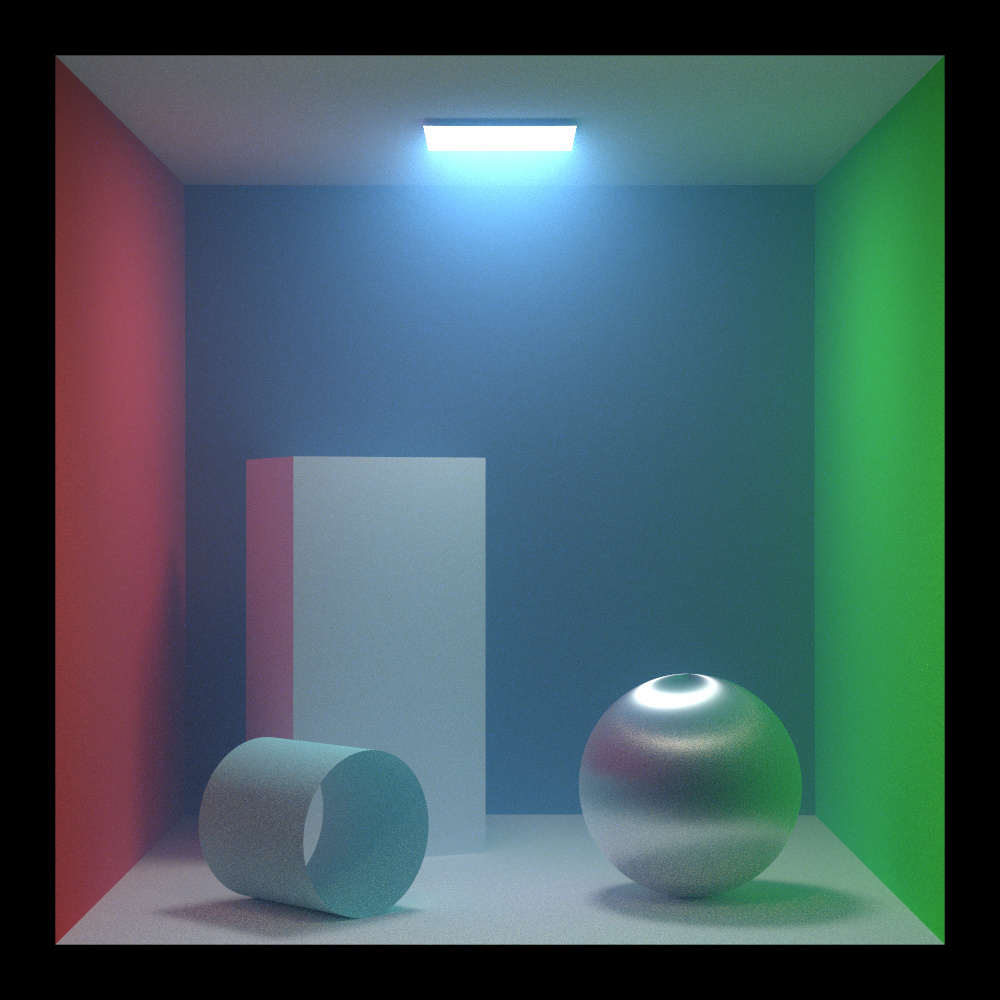
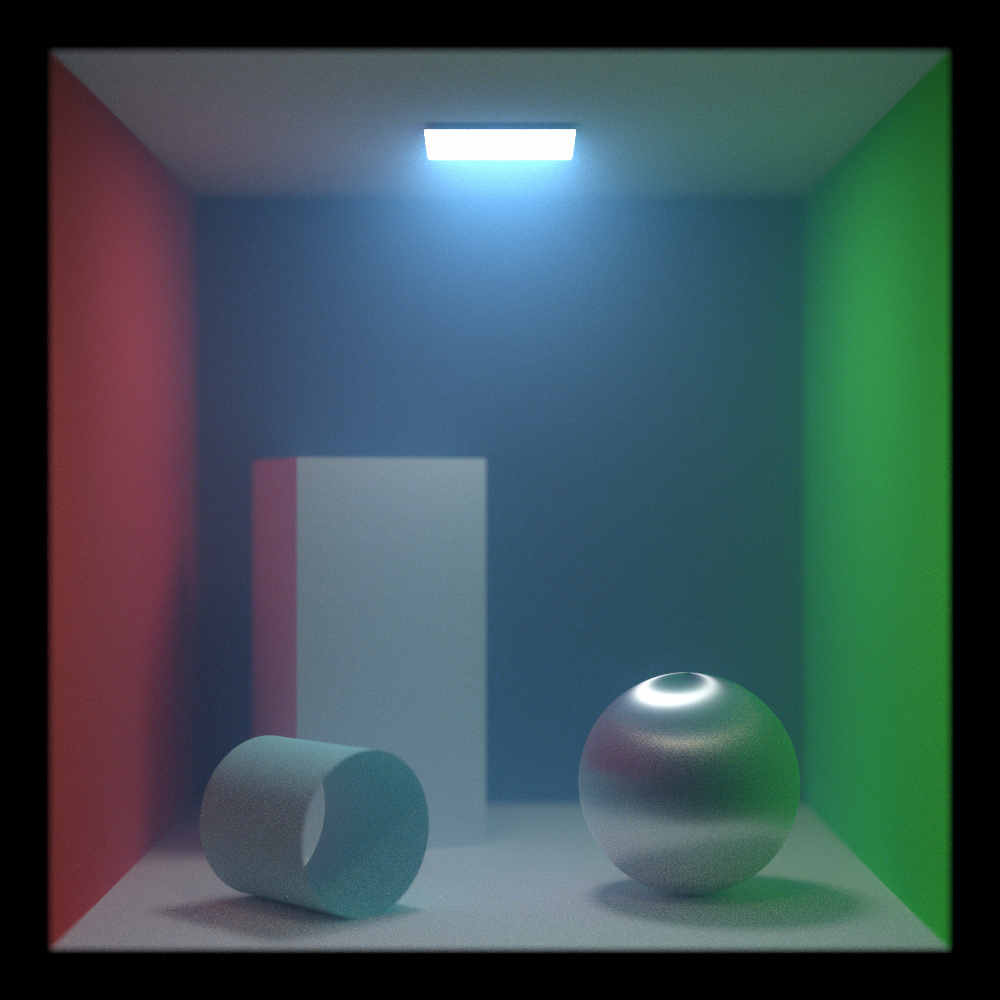
reflection prob

Changed region(s): [[0.031, 0.031, 0.961, 0.961], [0.093, 0.279, 0.155, 0.372], [0.124, 0.372, 0.155, 0.403]]

diff --git a/src/renderer/material.cpp b/src/renderer/material.cpp
@@ -90,10 +90,9 @@ Vec3 Glass::sample(const Vec3 &dir_prev, const Vec3 &normal, const bool into,
   }
 
   Vec3 refraction_vec = refraction_dir(dir_prev, normal, ior_prev, ior_next);
-  double reflectance =
-      schlick_fresnel(dir_prev, refraction_vec, normal, ior_prev, ior_next);
+  double prob = reflection_prob(dir_prev, normal, ior_prev, ior_next);
 
-  if (rnd->gen() < reflectance) {
+  if (rnd->gen() < prob) {
     return reflection_dir(dir_prev, normal);
   } else {
     return refraction_vec;
@@ -109,12 +108,12 @@ double Glass::sampling_pdf(const Vec3 &dir_prev, const Vec3 &dir_next,
   double r = ior_prev / ior_next;
 
   if (dot(dir_next, normal) < 0.) {
-    return 1. - schlick_fresnel(dir_prev, dir_next, normal, ior_prev, ior_next);
+    return 1. - reflection_prob(dir_prev, normal, ior_prev, ior_next);
   } else {
     if (!check_refraction(dir_prev, normal, r)) {
       return 1.;
     } else {
-      return schlick_fresnel(dir_prev, dir_next, normal, ior_prev, ior_next);
+      return reflection_prob(dir_prev, normal, ior_prev, ior_next);
     }
   }
 }
@@ -225,7 +224,7 @@ double MicroBtdf::sampling_pdf(const Vec3 &dir_prev, const Vec3 &dir_next,
     // refract
     Vec3 wm = get_half_vec(dir_prev, dir_next, 1. / r);
 
-    return (1. - schlick_fresnel(dir_prev, dir_next, wm, ior_prev, ior_next)) *
+    return (1. - reflection_prob(dir_prev, wm, ior_prev, ior_next)) *
            ggx_vndf(dir_prev, dir_next, wm, normal) *
            ggx_j(dir_prev, dir_next, wm, 1. / r);
   } else {
@@ -236,7 +235,7 @@ double MicroBtdf::sampling_pdf(const Vec3 &dir_prev, const Vec3 &dir_next,
       return ggx_g1(dir_prev, normal) * ggx_d(wm, normal) * 0.25 /
              fabs(dot(dir_prev, normal));
     } else {
-      return schlick_fresnel(dir_prev, dir_next, wm, ior_prev, ior_next) *
+      return reflection_prob(dir_prev, wm, ior_prev, ior_next) *
              ggx_g1(dir_prev, normal) * ggx_d(wm, normal) * 0.25 /
              fabs(dot(dir_prev, normal));
     }
@@ -261,10 +260,9 @@ Vec3 MicroBtdf::sample(const Vec3 &dir_prev, const Vec3 &normal,
   }
 
   Vec3 refraction_vec = refraction_dir(dir_prev, wm, ior_prev, ior_next);
-  double reflectance =
-      schlick_fresnel(dir_prev, refraction_vec, wm, ior_prev, ior_next);
+  double prob = reflection_prob(dir_prev, wm, ior_prev, ior_next);
 
-  if (rnd->gen() < reflectance) {
+  if (rnd->gen() < prob) {
     return reflection_dir(dir_prev, wm);
   } else {
     return refraction_vec;

diff --git a/src/integrator/bidirection.cpp b/src/integrator/bidirection.cpp
@@ -250,7 +250,7 @@ double calc_sampling_pdf(const std::vector<const BptVertexInfo *> &path,
   } break;
   case ObjectType::OTHER: {
     if (!prev_from_v) {
-      break;
+      return 0.;
     }
 
     Vec3 dir_prev = normalize(prev_from_v->hitpoint - from_v->hitpoint);
@@ -261,7 +261,7 @@ double calc_sampling_pdf(const std::vector<const BptVertexInfo *> &path,
   case ObjectType::FULL_SPECUALR:
   case ObjectType::OTHER_TRANSPARENT: {
     if (!prev_from_v) {
-      break;
+      return 0.;
     }
 
     Vec3 dir_prev = normalize(prev_from_v->hitpoint - from_v->hitpoint);
@@ -338,6 +338,10 @@ double calc_mis_weight(Scene *scene, Camera *camera,
     double pdf_from_eye = calc_sampling_pdf(path, camera, scene, i, i + 1,
                                             i + 2, IntegrateMode::PT);
 
+    if (pdf_from_eye == 0.) {
+      return -1.;
+    }
+
     double q_from_light = roullete(i - 1);
     double q_from_eye = roullete(size - 2 - i);
 
@@ -390,7 +394,6 @@ Integrator::bpt_integrate(Scene *scene, Camera *camera, const Point3 &px_pos,
       gen_light_path(scene, camera, &lightpath_result, rnd);
 
   if (eyepath_result.value != INVALID_VEC) {
-    double total_pdf = eye_path[eye_path.size() - 1].pdf;
     double mis_weight = calc_mis_weight(scene, camera, eye_path, light_path,
                                         eye_path.size(), 0);
     bpt_results.emplace_back(PixelResult(
@@ -398,7 +401,6 @@ Integrator::bpt_integrate(Scene *scene, Camera *camera, const Point3 &px_pos,
   }
 
   if (lightpath_result.value != INVALID_VEC) {
-    double total_pdf = light_path[light_path.size() - 1].pdf;
     double mis_weight = calc_mis_weight(scene, camera, eye_path, light_path, 0,
                                         light_path.size());
     bpt_results.emplace_back(lightpath_result.px_u, lightpath_result.px_v,
@@ -532,7 +534,7 @@ Integrator::bpt_integrate(Scene *scene, Camera *camera, const Point3 &px_pos,
                       light_end_to_eye_end.len2();
       double mis_weight =
           calc_mis_weight(scene, camera, eye_path, light_path, en, ln);
-      if (std::isnan(mis_weight) || mis_weight > INF || mis_weight < 0) {
+      if (std::isnan(mis_weight) || mis_weight > 1. || mis_weight <= 0) {
         continue;
       }
 

diff --git a/src/renderer/material.h b/src/renderer/material.h
@@ -87,6 +87,17 @@ protected:
     return 1. - r_pn * r_pn * (1. - d * d) >= 0.;
   }
 
+  inline static double reflection_prob(const Vec3 &dir_prev, const Vec3 &normal,
+                                       const double ior_prev,
+                                       const double ior_next) {
+    Vec3 refraction_vec = refraction_dir(dir_prev, normal, ior_prev, ior_next);
+    double a = ior_prev - ior_next, b = ior_prev + ior_next;
+    double f0 = (a * a) / (b * b);
+    double d = ior_prev > ior_next ? fabs(dot(refraction_vec, normal))
+                                   : fabs(dot(dir_prev, normal));
+    return f0 + (1. - f0) * pow(1. - d, 5);
+  }
+
   inline static double schlick_fresnel(const Vec3 &dir_prev,
                                        const Vec3 &dir_next, const Vec3 &normal,
                                        const double ior_prev,
@@ -564,4 +575,38 @@ private:
     double t = 0.08 * specular;
     return metallic * color + (1. - metallic) * Vec3(t);
   }
+};
+
+class NoSurface : public Bxdf {
+public:
+  NoSurface(const Color &base_color) : Bxdf(base_color, nullptr) {}
+
+  Color eval(const Vec3 &wo, const Vec3 &wi, const Vec2 &uv, const Vec3 &normal,
+             const Vec3 &geometry_normal, const bool into,
+             const IntegrateMode &mode) const override {
+    return check_light_leak(wi, wo, normal, geometry_normal) &&
+                   !check_block_surface(wi, wo, geometry_normal)
+               ? get_color(uv) / fabs(dot(wi, normal))
+               : 0.;
+  }
+
+  Vec3 sample(const Vec3 &dir_prev, const Vec3 &normal, const bool into,
+              Random *rnd, const IntegrateMode &mode) const override {
+    return -1. * dir_prev;
+  }
+
+  double sampling_pdf(const Vec3 &dir_prev, const Vec3 &dir_next,
+                      const Vec3 &normal, const bool into,
+                      const IntegrateMode &mode) const override {
+    return 1.;
+  }
+
+  bool is_specular() const override { return true; }
+
+  void display() const override {
+    std::cout << "no surface";
+    base_color.display();
+  }
+
+  ObjectType get_objtype() const override { return ObjectType::FULL_SPECUALR; }
 };

diff --git a/src/integrator/volbpt.cpp b/src/integrator/volbpt.cpp
@@ -382,7 +382,7 @@ double calc_volpath_sampling_pdf(const std::vector<const BptVertexInfo *> &path,
   } break;
   case ObjectType::OTHER: {
     if (!prev_from_v) {
-      break;
+      return 0.;
     }
 
     Vec3 dir_prev = normalize(prev_from_v->hitpoint - from_v->hitpoint);
@@ -393,7 +393,7 @@ double calc_volpath_sampling_pdf(const std::vector<const BptVertexInfo *> &path,
   case ObjectType::FULL_SPECUALR:
   case ObjectType::OTHER_TRANSPARENT: {
     if (!prev_from_v) {
-      break;
+      return 0.;
     }
 
     Vec3 dir_prev = normalize(prev_from_v->hitpoint - from_v->hitpoint);
@@ -486,6 +486,10 @@ double calc_volpath_mis_weight(Scene *scene, Camera *camera,
     double pdf_from_eye = calc_volpath_sampling_pdf(
         path, camera, scene, i, i + 1, i + 2, IntegrateMode::PT);
 
+    if (pdf_from_eye == 0.) {
+      return -1.;
+    }
+
     double q_from_light = roullete(i - 1);
     double q_from_eye = roullete(size - 2 - i);
 
@@ -538,7 +542,6 @@ Integrator::volbpt_integrate(Scene *scene, Camera *camera, const Point3 &px_pos,
       gen_light_volpath(scene, camera, &lightpath_result, rnd);
 
   if (eyepath_result.value != INVALID_VEC) {
-    double total_pdf = eye_path[eye_path.size() - 1].pdf;
     double mis_weight = calc_volpath_mis_weight(scene, camera, eye_path,
                                                 light_path, eye_path.size(), 0);
     bpt_results.emplace_back(PixelResult(
@@ -546,7 +549,6 @@ Integrator::volbpt_integrate(Scene *scene, Camera *camera, const Point3 &px_pos,
   }
 
   if (lightpath_result.value != INVALID_VEC) {
-    double total_pdf = light_path[light_path.size() - 1].pdf;
     double mis_weight = calc_volpath_mis_weight(
         scene, camera, eye_path, light_path, 0, light_path.size());
     bpt_results.emplace_back(lightpath_result.px_u, lightpath_result.px_v,

diff --git a/src/scene/scene.cpp b/src/scene/scene.cpp
@@ -198,6 +198,9 @@ void Scene::load_mtl(const auto &material, Primitive *prim,
     bxdf = std::make_unique<MixtureBrdf>(kd, pm, pr, color_texture_ptr);
     // bxdf.get()->display();
   } break;
+  case 13: {
+    bxdf = std::make_unique<NoSurface>(kd);
+  } break;
   default: {
     bxdf = std::make_unique<Lambertian>(kd, color_texture_ptr);
   } break;
@@ -529,12 +532,12 @@ bool Scene::intersect(Ray &ray, HitRecord *record,
 }
 
 void Scene::set_test_primitive() {
-  // std::unique_ptr<Shape> sphere =
-  //   std::make_unique<Sphere>(Point3(12, 7, -15), 7);
   std::unique_ptr<Shape> sphere =
-      std::make_unique<Sphere>(Point3(0, 25, 0), 15);
+      std::make_unique<Sphere>(Point3(12, 7, -15), 7);
+  // std::unique_ptr<Shape> sphere =
+  //   std::make_unique<Sphere>(Point3(0, 25, 0), 15);
   std::unique_ptr<Bxdf> bxdf =
-      std::make_unique<MixtureBrdf>(Color(1.), 0.2, 0.1);
+      std::make_unique<MicroBrdfAniso>(Color(1.), 0.3, 0.7);
   Primitive prim = Primitive(sphere.get(), bxdf.get(), primitives.size());
   // primitives.emplace_back(std::move(prim));
   // shapes.emplace_back(std::move(sphere));

diff --git a/src/renderer/medium.h b/src/renderer/medium.h
@@ -22,7 +22,8 @@ struct Medium {
       : sigma_a(sigma_a), sigma_s(sigma_s), g(g) {
     sigma_t = sigma_a + sigma_s;
     scattering_albedo = sigma_s / sigma_t;
-    discrete_pdf = (Vec3(sigma_t.sum()) - sigma_t) / (sigma_t.sum() * 2);
+    // discrete_pdf = (Vec3(sigma_t.sum()) - sigma_t) / (sigma_t.sum() * 2);
+    discrete_pdf = Vec3(1. / 3.);
   }
 
   double sample_distance(Random *rnd) const {

diff --git a/src/main.cpp b/src/main.cpp
@@ -1,3 +1,3 @@
 #include "renderer/renderer.h"
 
-int main() { Renderer renderer = Renderer("settings/water.json"); }
+int main() { Renderer renderer = Renderer("settings/test-setting.json"); }
